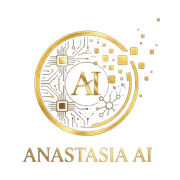
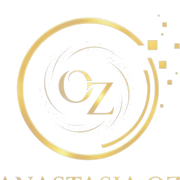
fix(storefront): switch to Anastasia OZ branding

diff --git a/storefront-prototype/src/koncept-home.html b/storefront-prototype/src/koncept-home.html
@@ -7,14 +7,14 @@
   <div class="kc-open__stick">
     <div class="kc-pre" aria-label="Svet ANASTASIA">
       <a class="kc-pre__i kc-pre__brand" href="/ai-anastasia-academy" style="--x:13;--y:21;--mx:20;--my:22;--dx:-30;--dy:-30;--t:.5s" aria-label="ANASTASIA ACADEMY"><b>ANASTASIA</b><small><i></i>ACADEMY<i></i></small></a>
-      <a class="kc-pre__i kc-pre__brand kc-pre__brand--main" href="/" style="--x:50;--y:20;--t:.6s" aria-label="ANASTASIA — Light for the Future"><img src="/assets/lucia-koule.png" alt="" width="46" height="46"><b>ANASTASIA</b><small><i></i>LIGHT FOR THE FUTURE<i></i></small></a>
+      <a class="kc-pre__i kc-pre__brand kc-pre__brand--main" href="/" style="--x:50;--y:20;--t:.6s" aria-label="ANASTASIA OZ — Light for the Future"><img src="/assets/anastasia-oz-mark.png" alt="" width="46" height="46"><b>ANASTASIA OZ</b><small><i></i>LIGHT FOR THE FUTURE<i></i></small></a>
       <a class="kc-pre__i kc-pre__brand kc-pre__brand--ai" href="/ai-anastasia" style="--x:86;--y:23;--mx:80;--my:24;--dx:30;--dy:-34;--t:.75s" aria-label="AI ANASTASIA"><img src="/assets/logo-mark.png" alt="" width="40" height="40"><b>ANASTASIA</b><small>AI ANASTASIA</small></a>
       <a class="kc-pre__i kc-pre__cat" href="/eshop?category=bio-kozmetika-bez-chemie" style="--x:19;--y:69;--mx:22;--my:70;--dx:-40;--dy:20;--t:1s">Kozmetika na mieru</a>
       <a class="kc-pre__i kc-pre__cat" href="/eshop?category=zdrave-doplnky-vyzivy" style="--x:79;--y:64;--mx:78;--my:68;--dx:40;--dy:14;--t:1.15s">Bylinky Hildegardy</a>
       <a class="kc-pre__i kc-pre__cat" href="/konzultacie" style="--x:30;--y:84;--mx:20;--my:82;--dx:-26;--dy:30;--t:1.3s">Konzultácie</a>
       <a class="kc-pre__i kc-pre__cat" href="/eshop?category=sebarozvoj" style="--x:70;--y:85;--mx:80;--my:84;--dx:26;--dy:30;--t:1.45s">Programy</a>
     </div>
-    <img class="kc-open__mark" src="/assets/lucia-koule.png" alt="" width="72" height="72">
+    <img class="kc-open__mark" src="/assets/anastasia-oz-mark.png" alt="" width="72" height="72">
     <h1 class="kc-open__title" aria-label="ANASTASIA" translate="no"><span class="kc-l" style="--k:0;--d:-1"><span>A</span></span><span class="kc-l" style="--k:1;--d:1"><span>N</span></span><span class="kc-l" style="--k:2;--d:-1"><span>A</span></span><span class="kc-l" style="--k:3;--d:1"><span>S</span></span><span class="kc-l" style="--k:4;--d:-1"><span>T</span></span><span class="kc-l" style="--k:5;--d:1"><span>A</span></span><span class="kc-l" style="--k:6;--d:-1"><span>S</span></span><span class="kc-l" style="--k:7;--d:1"><span>I</span></span><span class="kc-l" style="--k:8;--d:-1"><span>A</span></span></h1>
     <p class="kc-open__kicker">Lucia Rogožanová · Light for the Future</p>
     <button class="kc-enter" type="button" data-enter><span>Vstúpte</span><i aria-hidden="true">↓</i></button>
@@ -25,7 +25,7 @@
       </video>
       <div class="kc-open__veil"></div>
       <div class="kc-open__shade" aria-hidden="true"></div>
-      <div class="kc-open__seal" aria-hidden="true"><img src="/assets/lucia-koule.png" alt="" width="36" height="36"><span>ANASTASIA</span></div>
+      <div class="kc-open__seal" aria-hidden="true"><img src="/assets/anastasia-oz-mark.png" alt="" width="36" height="36"><span>ANASTASIA</span></div>
       <p class="kc-open__claim"><span>Zdravý svet</span>Priestor pre zdravie,<br>poznanie a vedomý život.</p>
       <nav class="kc-open__more" aria-label="Kam ďalej">
         <a href="/eshop"><span class="kc-more__top"><span class="kc-more__idx">01</span><i aria-hidden="true">↗</i></span><b>Obchod</b><small>Bylinky, kozmetika, doplnky</small></a>
@@ -172,7 +172,7 @@
   <div class="kc-gift__stage">
     <span class="kc-gift__back" aria-hidden="true"></span>
     <a class="kc-ticket" href="/darcekovy-poukaz/" data-tilt>
-      <span class="kc-ticket__brand"><img src="/assets/brand-mark.svg" alt="" width="40" height="40">ANASTASIA · Light for the Future</span>
+      <span class="kc-ticket__brand"><img src="/assets/anastasia-oz-mark.png" alt="" width="40" height="40">ANASTASIA OZ · Light for the Future</span>
       <span class="kc-ticket__title">Darčekový<br><em>poukaz</em></span>
       <span class="kc-ticket__t">pre vašich blízkych</span>
       <span class="kc-ticket__code"><small>Kód poukazu</small>•••••-•••••</span>

diff --git a/storefront-prototype/public/navrh-home/index.html b/storefront-prototype/public/navrh-home/index.html
@@ -11,7 +11,7 @@
 </head>
 <body class="nh">
 
-<a class="nh-logo" href="/" aria-label="ANASTASIA — domov"><img src="/assets/brand-mark.svg" alt="" width="40" height="40"><span>ANASTASIA<small>LIGHT FOR THE FUTURE</small></span></a>
+<a class="nh-logo" href="/" aria-label="ANASTASIA OZ — domov"><img src="/assets/anastasia-oz-mark.png" alt="" width="40" height="40"><span>ANASTASIA OZ<small>LIGHT FOR THE FUTURE</small></span></a>
 <button class="nh-menu-btn" type="button" aria-expanded="false" aria-controls="nh-menu"><span>Menu</span><i aria-hidden="true"><svg viewBox="0 0 16 16"><path d="M12 4 4 12M4 5.5V12h6.5"/></svg></i></button>
 <nav class="nh-menu" id="nh-menu" hidden>
   <div class="nh-menu__col"><p>Svet</p><a href="/zdravy-svet/">Zdravý svet</a><a href="/o-lucii/">O Lucii</a><a href="/denny-stacionar-vysna-slana/">Denný stacionár Vyšná Slaná</a><a href="/ai-anastasia/">AI ANASTASIA</a></div>
@@ -78,7 +78,7 @@
 
   <!-- 5 · Statement na střed na slabém motivu -->
   <section class="nh-statement">
-    <img class="nh-statement__motif" src="/assets/brand-mark.svg" alt="" aria-hidden="true">
+    <img class="nh-statement__motif" src="/assets/anastasia-oz-mark.png" alt="" aria-hidden="true">
     <h2>AI je nástroj. Odbornosť zostáva ľudská.</h2>
     <p>Verím, že budúcnosť zdravotníctva nebude stáť na výbere medzi človekom a umelou inteligenciou. Bude stáť na ich spolupráci.</p>
     <a class="nh-btn" href="/ai-anastasia/"><span>AI ANASTASIA</span><i aria-hidden="true"><svg viewBox="0 0 16 16"><path d="M12 4 4 12M4 5.5V12h6.5"/></svg></i></a>
@@ -146,13 +146,13 @@
 
 <footer class="nh-foot">
   <div class="nh-foot__top nh-wrap">
-    <a class="nh-foot__brand" href="/"><img src="/assets/brand-mark.svg" alt="" width="44" height="44"><span>ANASTASIA<small>LIGHT FOR THE FUTURE</small></span></a>
+    <a class="nh-foot__brand" href="/"><img src="/assets/anastasia-oz-mark.png" alt="" width="44" height="44"><span>ANASTASIA OZ<small>LIGHT FOR THE FUTURE</small></span></a>
     <div><p>Svet</p><a href="/zdravy-svet/">Zdravý svet</a><a href="/o-lucii/">O Lucii</a><a href="/denny-stacionar-vysna-slana/">Denný stacionár</a></div>
     <div><p>Obchod</p><a href="/eshop/">Obchod</a><a href="/reset-40/">RESET 40+</a><a href="/klub/">Klub</a></div>
     <div><p>Sprevádzanie</p><a href="/konzultacie/">Konzultácie</a><a href="/astrologia/">Astrológia</a><a href="/kontakt/">Kontakt</a></div>
     <form class="nh-news" action="/kontakt/" method="get"><p>Zostaňme v kontakte.</p><label class="nh-sr" for="nh-mail">E-mail</label><input id="nh-mail" type="email" name="email" placeholder="Váš e-mail" autocomplete="email"><button type="submit" aria-label="Odoberať"><svg viewBox="0 0 16 16"><path d="M2 8h12M9 3l5 5-5 5"/></svg></button></form>
   </div>
-  <div class="nh-foot__bottom nh-wrap"><span>© 2026 ANASTASIA</span><a href="/gdpr/">Súkromie a GDPR</a><a href="/vop/">Obchodné podmienky</a><span class="nh-foot__contact">+421 905 363 778 · zdravysvet@anastasiaoz.eu</span></div>
+  <div class="nh-foot__bottom nh-wrap"><span>© 2026 ANASTASIA OZ</span><a href="/gdpr/">Súkromie a GDPR</a><a href="/vop/">Obchodné podmienky</a><span class="nh-foot__contact">+421 905 363 778 · zdravysvet@anastasiaoz.eu</span></div>
 </footer>
 </body>
 </html>

diff --git a/storefront-prototype/public/styles.css b/storefront-prototype/public/styles.css
@@ -650,3 +650,12 @@ body{padding-bottom:0;transition:padding-bottom .3s var(--ana-ease-soft)}
 #ana-rail#ana-rail#ana-rail [data-rail-tone="light"],#ana-rail#ana-rail#ana-rail [data-rail-tone="light"] :is(span,svg){color:#1E261D!important}
 #ana-rail#ana-rail#ana-rail [data-rail-tone="dark"],#ana-rail#ana-rail#ana-rail [data-rail-tone="dark"] :is(span,svg){color:#EFE5C7!important}
 #ana-rail#ana-rail :is(a,button):is(:hover,:focus-visible),#ana-rail#ana-rail :is(a,button):is(:hover,:focus-visible) :is(span,svg){color:#B08D57!important}
+
+/* Mobile main menu: sections stay in a consistent two-column card grid. */
+@media(max-width:760px){
+  #dc-top-menu div:has(> .menu-section){display:grid!important;grid-template-columns:repeat(2,minmax(0,1fr))!important;align-items:stretch!important;gap:12px!important}
+  #dc-top-menu .menu-section{min-width:0!important;align-self:stretch!important;box-sizing:border-box!important;padding:16px 14px!important;border:1px solid rgba(64,63,98,.14)!important;border-radius:16px!important;background:rgba(255,255,255,.58)!important}
+  #dc-top-menu .menu-section>:first-child{display:flex!important;align-items:flex-start!important;min-height:2.5em!important;margin:0 0 10px!important;font:300 19px/1.22 Fraunces,Georgia,serif!important;color:#403f62!important}
+  #dc-top-menu .menu-section>a:not(:first-child){display:flex!important;align-items:center!important;min-height:40px!important;box-sizing:border-box!important;padding:7px 0!important;border-top:1px solid rgba(64,63,98,.08)!important;font:400 13px/1.32 Figtree,sans-serif!important;color:#403f62!important;white-space:normal!important;overflow-wrap:anywhere!important;hyphens:auto!important}
+  #dc-top-menu .menu-section>a:nth-child(2){border-top:0!important}
+}

diff --git a/storefront-prototype/public/jednotny.css b/storefront-prototype/public/jednotny.css
@@ -1313,3 +1313,9 @@ html body #page-shell#page-shell.kc-unified .shop-checkout :is(#payment-options,
 #page-shell#page-shell.kc-unified .legacy-main .cv2 .cv2-story>.cv2-chap:nth-child(6n+6){background:#E8D5A6!important}
 @media (max-width:900px){#page-shell#page-shell.kc-unified .legacy-main .cv2 .cv2-story>.cv2-chap:has(h2)>div{grid-template-columns:1fr}#page-shell#page-shell.kc-unified .legacy-main .cv2 .cv2-story>.cv2-chap:has(h2)>div>h2,#page-shell#page-shell.kc-unified .legacy-main .cv2 .cv2-story>.cv2-chap:has(h2)>div>:not(h2){grid-column:1;grid-row:auto;position:static}}
 }
+
+/* Mobil: tlačidlo Menu zostáva v pravom hornom rohu na každej stránke. */
+@media(max-width:999px){
+#lh-top.lh-top{left:0!important;right:0!important;justify-content:flex-end!important;padding-left:0!important;padding-right:16px!important}
+#lh-top.lh-top .lh-top__side .lh-top__menu{left:auto!important;right:0!important}
+}

diff --git a/storefront-prototype/public/polish.css b/storefront-prototype/public/polish.css
@@ -164,7 +164,7 @@
 /* mobil: Menu blíž k pravému okraju */
 @media(max-width:760px){
   .dc-chrome header.lh-top{right:0!important;padding-right:12px!important}
-  .lh-top__side .lh-top__menu{position:relative;left:24px}
+  .lh-top__side .lh-top__menu{position:relative;left:auto;right:0}
   .shop-shortcuts{display:none!important}
 }
 /* voľby produktu a hodnoty poukazu ako tlačidlá */
